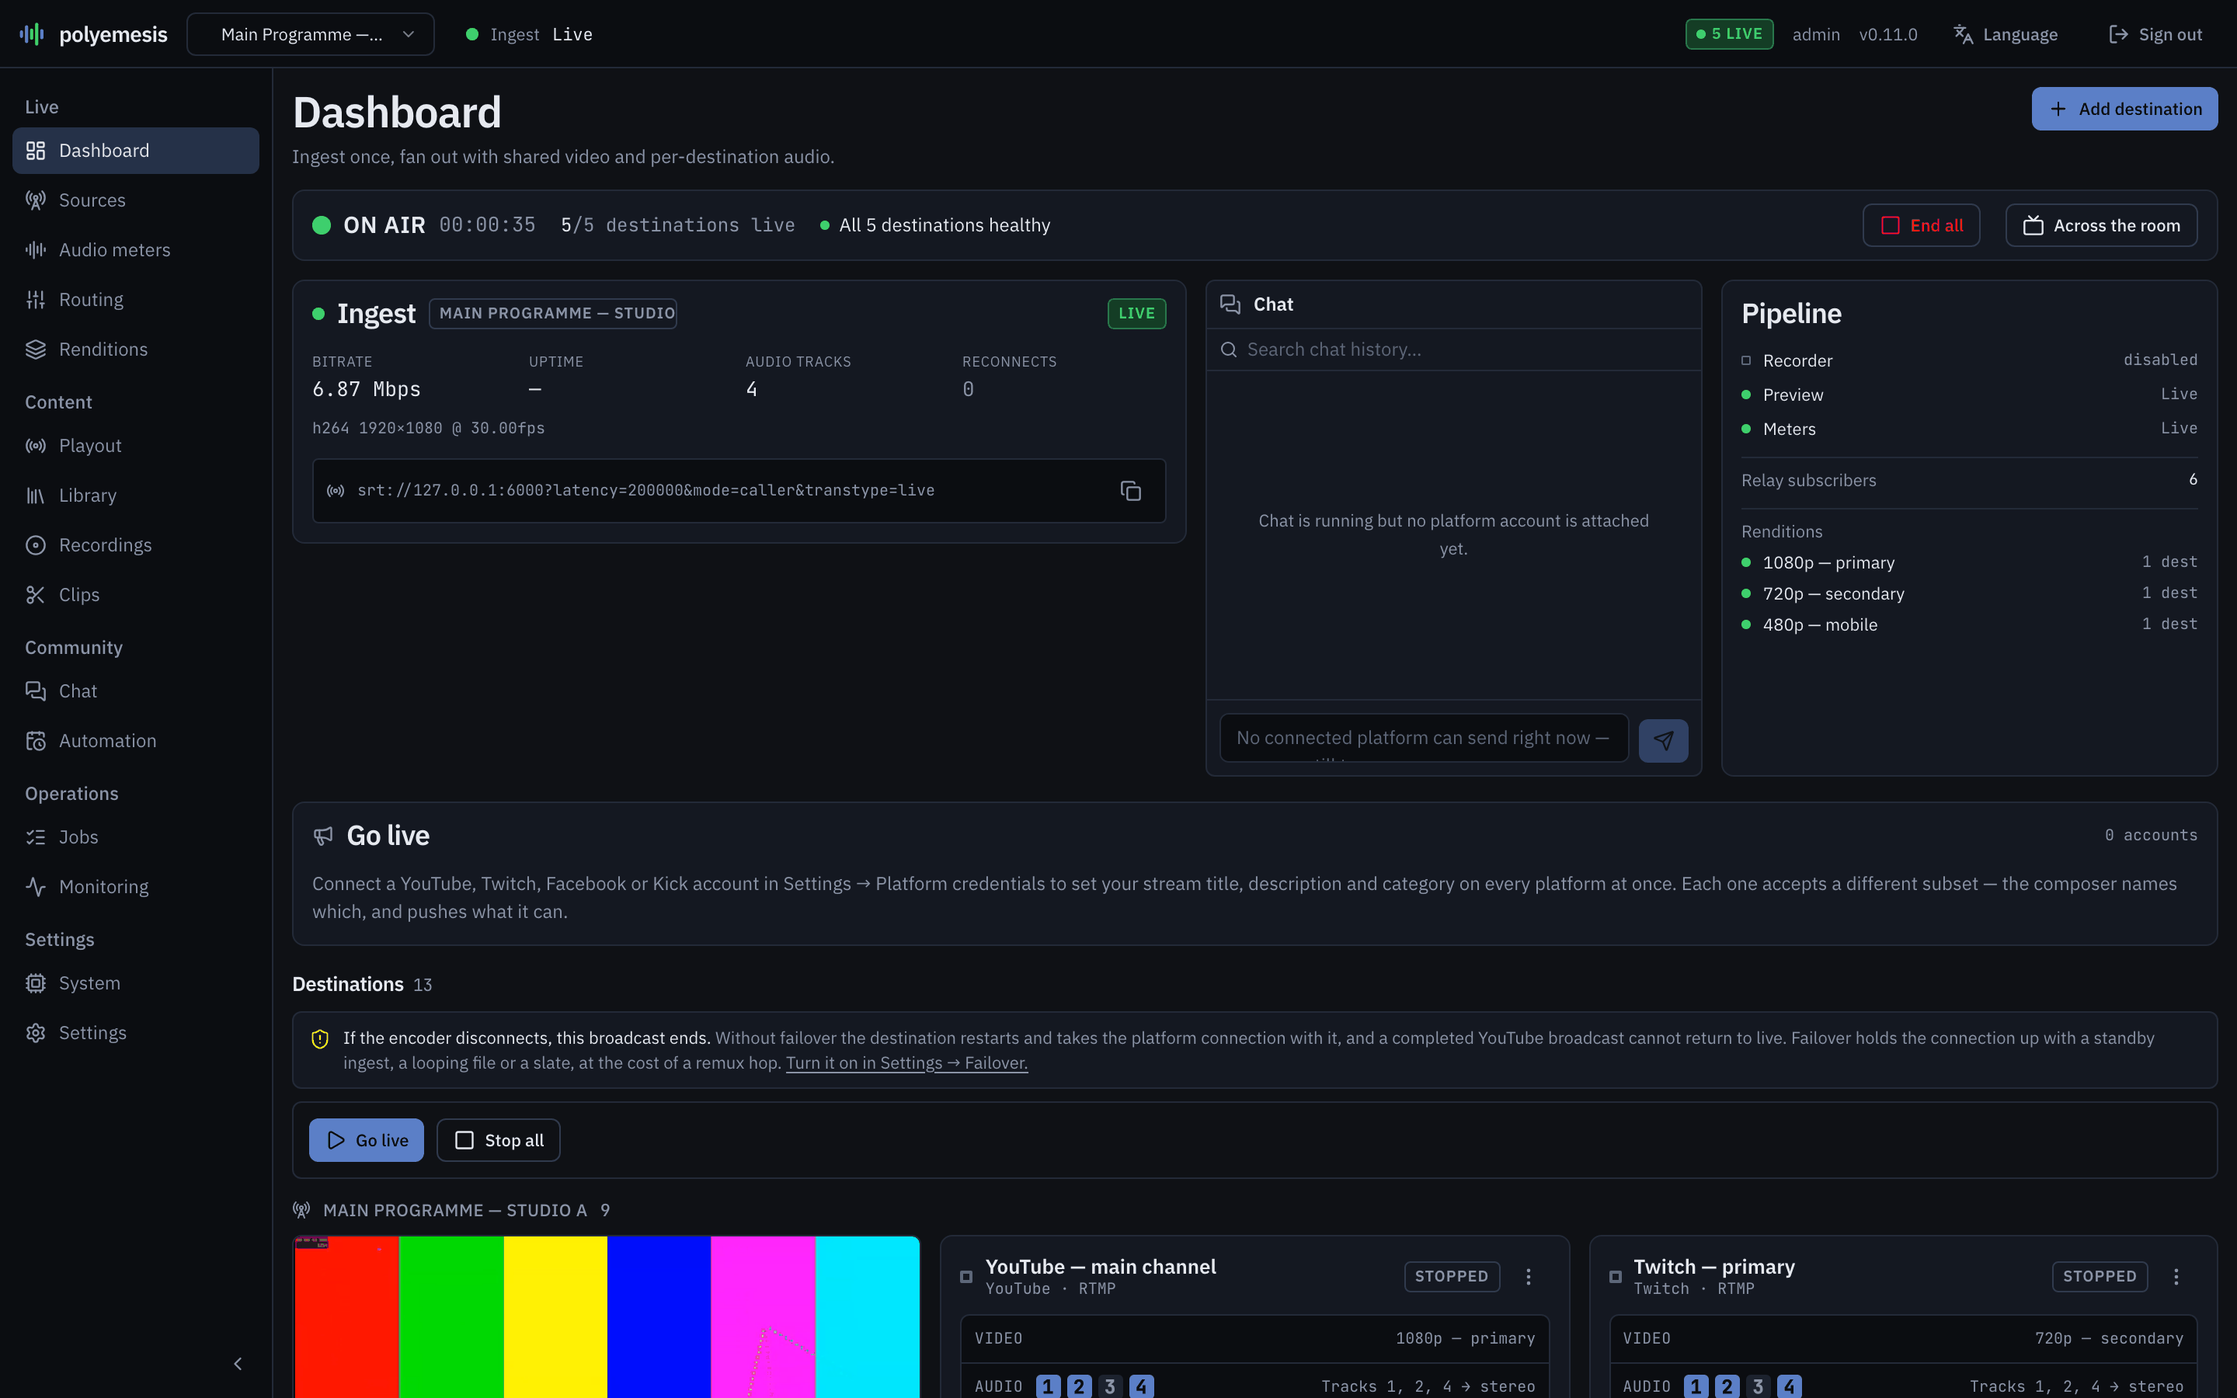
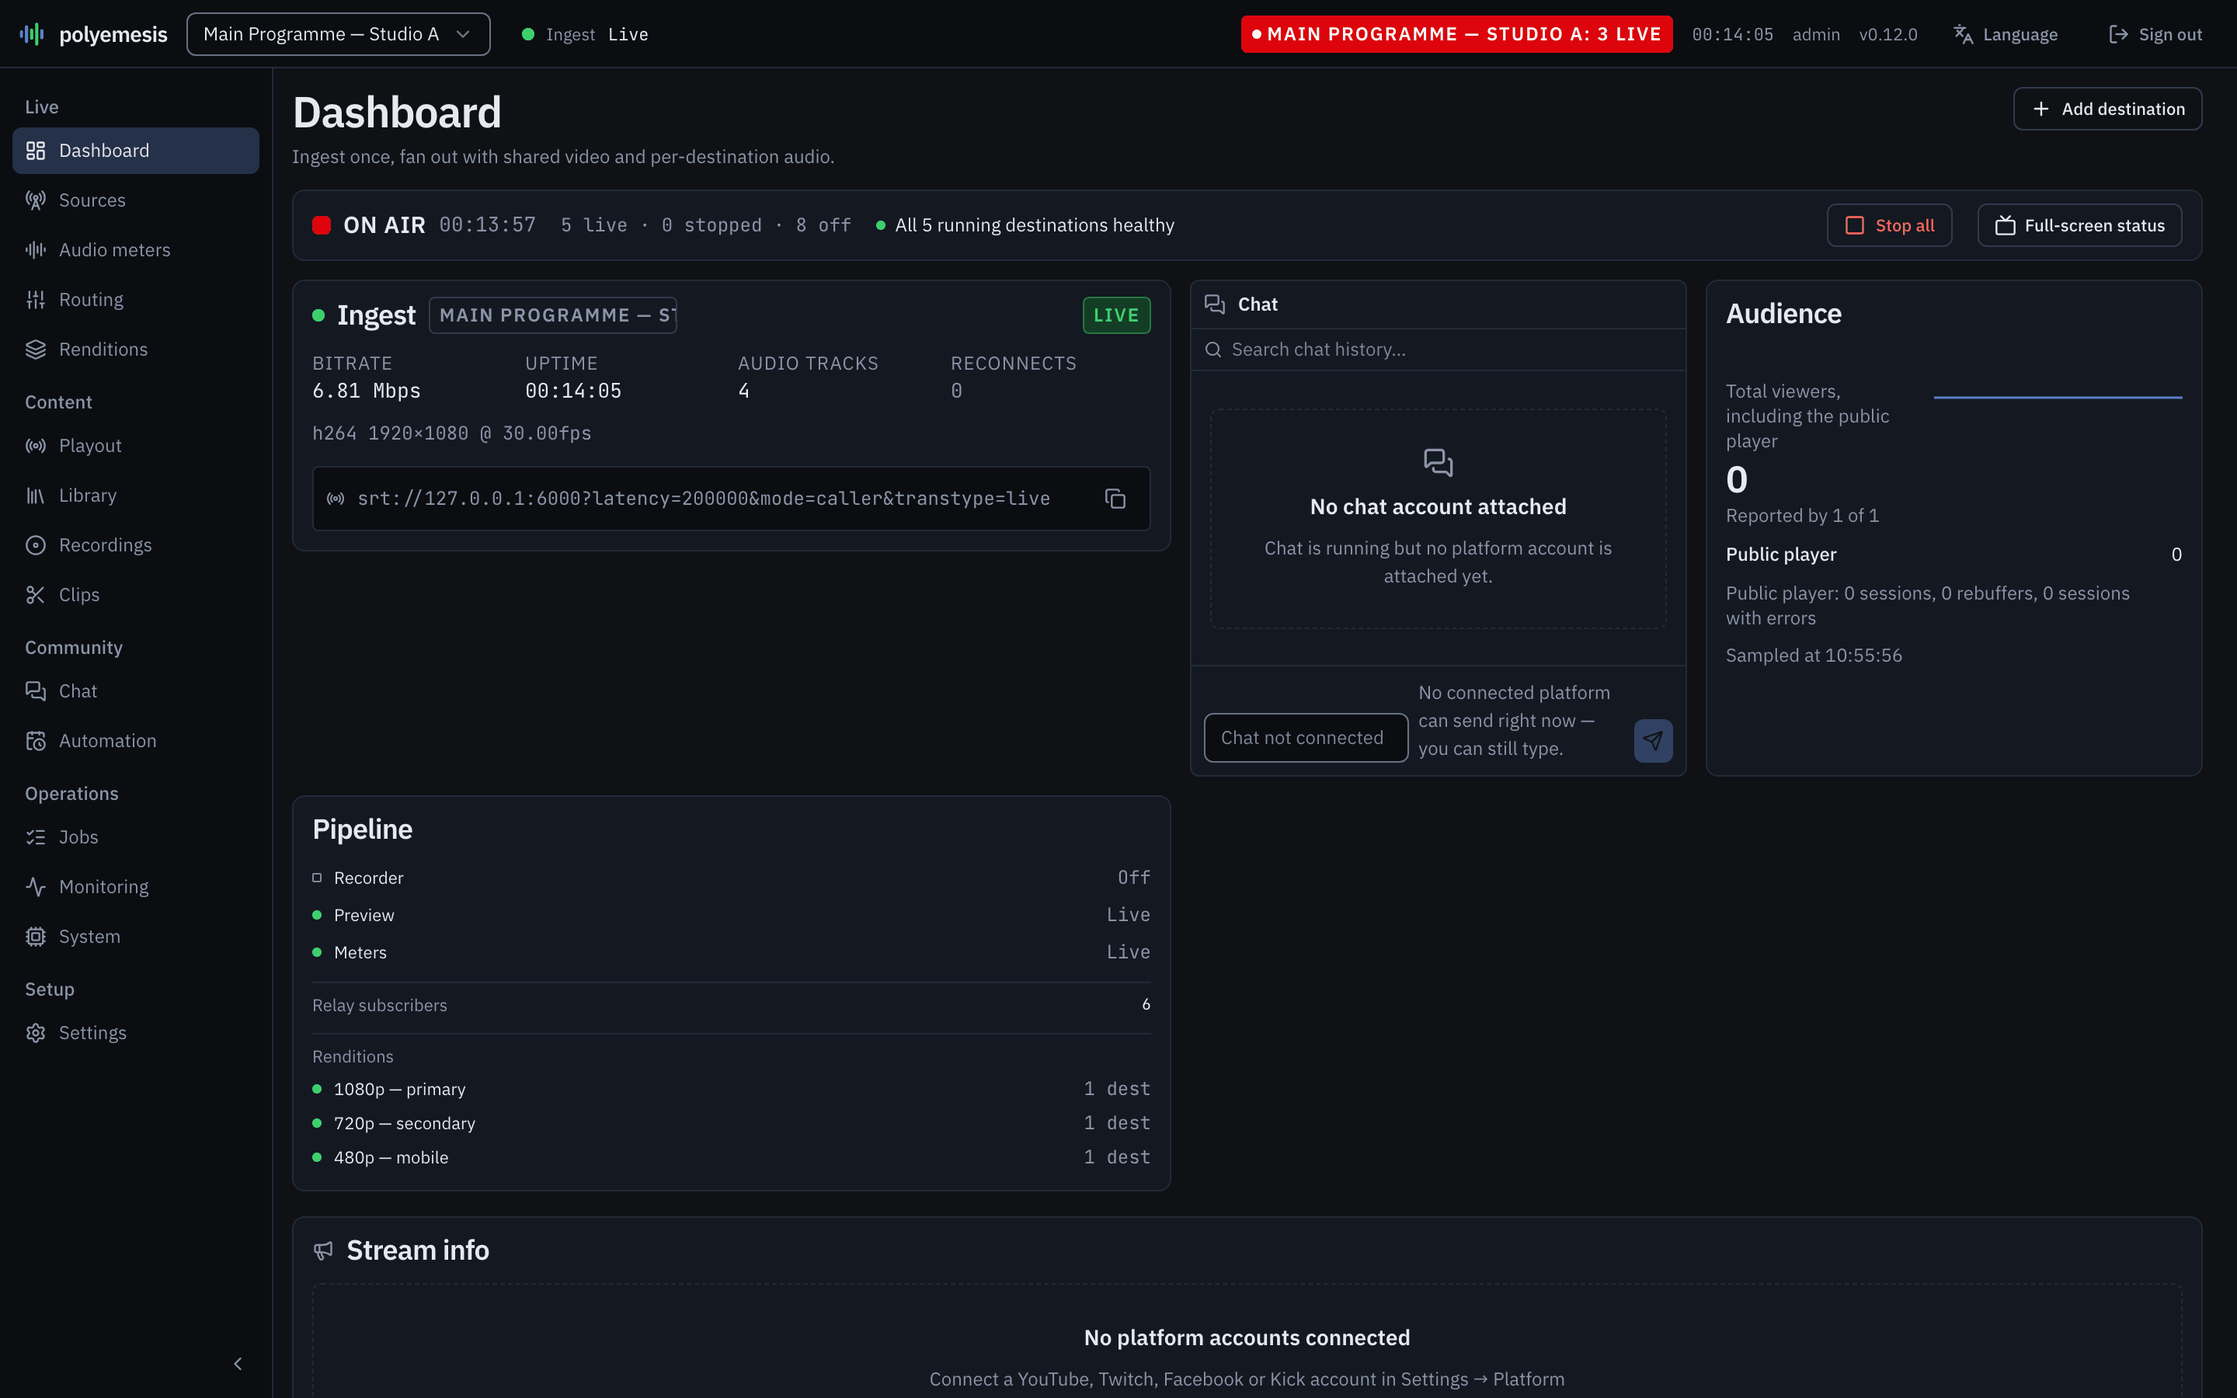
docs(site): recapture the six shots #973 kept old, and 09-chat
Taken with demo-seed.sh (alpine:3.24) and ui/e2e/capture.spec.ts against this
branch's build, quantized the way demo-seed.sh does, and copied byte-identical
to docs/media and web/src/assets/shots.

- 01-dashboard: Audience now counts (bug 1); the strip says Stop all. The
  dashboard grew an Audience card, so destinations and the preview are below
  the frame: caption and alt now describe what is in it. The hero guard also
  refuses "Loading…", which would otherwise pass it at once.
- 02-routing-hero: taken at 1024x1800 so the music-rights card below the four
  track rows is inside the clip; asserted. Frame checked by eye for four live
  meters (level frames name no programme; see the PR).
- 05-sources: each card is ~1000px since caption words moved in; framed at
  1440x1500 from the first programme's signal and publish URL through the
  second card to the third programme's header, asserted. Tokens masked right
  before the shutter.
- 20-automod: framed on Pattern rules beside the Model checker (off); the
  matrix is further down the tab, and the caption says so.
- 21/22-platforms: spec rewritten for the redesign (Optional banner,
  Connected channels, Add a platform rows with Set up). 21 opens YouTube's
  setup with empty fields; 22 is still the declared demo-account stub.
- 09-chat: the send box no longer names Facebook (bug 2).

captureKit's chip wait now waits for the chip to attach first: on a fresh
[…]

diff --git a/ui/e2e/capture.spec.ts b/ui/e2e/capture.spec.ts
@@ -44,7 +44,9 @@ test("dashboard — the hero shot", async ({ page }) => {
   // The ingest's not-running word is Stopped since app-council A91, and
   // Stopped can also be a pipeline row's honest answer, so the guard reads the
   // header ingest chip itself rather than the whole page.
-  await expect(page.getByTestId("chrome-ingest-status")).not.toHaveText("Stopped", {
+  // "Loading…" as well: the chip says that before its first reading now, and
+  // a guard that only refused "Stopped" would pass on it at once.
+  await expect(page.getByTestId("chrome-ingest-status")).not.toHaveText(/^(Stopped|Loading…)$/, {
     timeout: 120_000,
   });
   // BEFORE the placeholder guard below, not after it. Waiting for the
@@ -185,8 +187,14 @@ test("routing — the thing nothing else does", async ({ page }) => {
   // track card is 1000px of mostly meter bar, which the column shrinks until
   // the track names are unreadable again. At 1024 the card is ~600px, so the
   // hero shows it at close to its real size.
+  //
+  // AND TALL ENOUGH TO HOLD THE WHOLE CLIP. The music-rights card sits below
+  // the four track rows, and a clip is cut from the viewport, not the page:
+  // at 900px it ended on Track 4 under the sticky save bar, and the switch the
+  // clip exists to show was never in it. 1800px holds the tab row through the
+  // card's "Also exclude" line with room to spare.
   const fullViewport = page.viewportSize()!;
-  await page.setViewportSize({ width: 1024, height: 900 });
+  await page.setViewportSize({ width: 1024, height: 1800 });
   await settle(page, 800);
   const simpleTab = page.getByText("Simple", { exact: true }).first();
   // Scrolled to the top and then back down past the app's sticky header,
@@ -202,9 +210,20 @@ test("routing — the thing nothing else does", async ({ page }) => {
   await settle(page, 800);
   const top = (await simpleTab.boundingBox())!;
   const tail = (await page.getByText("Also exclude", { exact: false }).first().boundingBox())!;
+  // Asserted, not assumed: a clip whose bottom edge falls outside the viewport
+  // is silently cut there, which is how the switch went missing before.
+  expect(tail.y + tail.height + 18, "the music-rights card ends below the viewport").toBeLessThan(
+    page.viewportSize()!.height,
+  );
   const vw = page.viewportSize()!.width;
   const x = Math.max(0, top.x - 14);
   const y = Math.max(0, top.y - 10);
+  // Tracks 3 and 4 can read "not measured, last peak at …" in this frame:
+  // level frames name no programme, the demo's other two programmes carry two
+  // tracks, and whichever engine spoke last decides what tracks 3 and 4 show
+  // (found while re-aiming this, reported, not fixed here). A presence check
+  // around the shutter cannot hold it -- it toggles faster than a screenshot
+  // -- so the committed frame is one checked by eye to show all four meters.
   await page.screenshot({
     path: `${OUT}/02-routing-hero.png`,
     clip: { x, y, width: vw - 12 - x, height: tail.y + tail.height + 18 - y },
@@ -272,10 +291,31 @@ test("sources — one port, many programmes", async ({ page }) => {
   // themselves are one per protocol and would reach two on a single source.
   const perSource = page.locator('[data-tour="source-publish-urls"]');
   await expect.poll(() => perSource.count(), { timeout: 30_000 }).toBeGreaterThan(1);
-  await maskPublishTokens(page);
+  // RE-AIMED. Each programme's card now carries its caption track and caption
+  // words above the ingest fields, so a card is about a thousand pixels tall
+  // and the 900px frame at the top of the page held the first programme's
+  // caption-word boxes and nothing else -- under a caption about three
+  // programmes on one port. Taller, and framed from the first programme's
+  // "Signal detected" and publish URL down through the second programme's
+  // whole card to the third programme's header: three programmes, two of their
+  // per-programme publish URLs, one port.
+  const fullViewport = page.viewportSize()!;
+  await page.setViewportSize({ width: fullViewport.width, height: 1500 });
+  const names = page.locator("[data-slot=card-title]");
+  await expect.poll(() => names.count(), { timeout: 30_000 }).toBeGreaterThan(2);
+  await topOfFrame(page, page.getByText("Signal detected").first());
+  // Clear of the sticky header, which would otherwise sit on the line framed.
+  await page.locator("main").evaluate((m) => m.scrollBy(0, -64));
   await settle(page);
+  // The third programme's name has to be in the frame, or this is two.
+  const third = (await names.nth(2).boundingBox())!;
+  expect(third.y + third.height, "the third programme is below the frame").toBeLessThan(1500);
+  // Masked last, right before the shutter: the resize and the scroll above
+  // re-render the cards, and a re-render can put a token back.
+  await maskPublishTokens(page);
   await page.screenshot({ path: `${OUT}/05-sources.png` });
   await assertNoTokenSurvived(page);
+  await page.setViewportSize(fullViewport);
 });
 
 /** Replaces every publish token on the page with a visibly fake one.
@@ -740,7 +780,20 @@ test("automod — the rules, and the matrix that grants them", async ({ page }) 
   // Seeded on, so a screenshot of it off would be a screenshot of the feature
   // switched off -- worth asserting rather than hoping.
   await expect(toggle).toBeChecked();
+  // RE-AIMED after the Settings reorganisation. The tab is a two-column grid
+  // now, and the model checker card (endpoint, instruction, confidence floor,
+  // hourly ceiling, then an action per category) is about 1800px tall, with
+  // the matrix below it. Scrolling the switch into view landed on the bottom
+  // of the model card's category dropdowns and the save bar, with neither
+  // card's purpose in frame. Framed instead on the top of the two automod
+  // cards, side by side: the seeded pattern rules and the model checker, off.
+  // The matrix is the subject of the caption's second sentence, not the frame.
+  const model = page.locator("[data-slot=card-title]", { hasText: "Model checker" }).first();
+  await topOfFrame(page, model);
+  // Clear of the tab's sticky save bar, which otherwise covers the titles.
+  await page.locator("main").evaluate((m) => m.scrollBy(0, -88));
   await settle(page);
+  await expect(page.getByText("Pattern rules", { exact: true }).first()).toBeInViewport();
   await page.screenshot({ path: `${OUT}/20-automod.png` });
 });
 
@@ -757,15 +810,27 @@ test("platforms — sign-in and credentials, honestly not connected", async ({ p
   // Settings → Platform credentials, where each platform's account is attached.
   // The seeded install has NO account connected and never will: that needs live
   // OAuth credentials for a real channel. So this photographs the genuine
-  // not-connected state -- the capability table and the connect forms -- which
-  // is what a new install shows, and nothing is typed into any field.
+  // not-connected state, which is what a new install shows, and nothing is
+  // typed into any field.
+  //
+  // REDESIGNED (settings-council R1/R2): the tab is now an "Optional" banner
+  // with the developer-app explanation one click down, a Connected channels
+  // card (empty here), and an "Add a platform" list of one row per platform
+  // with a status pill and a Set up button. The old frame anchored on a "Why
+  // you need your own developer app" card that no longer exists. This opens
+  // YouTube's row, so the shot is the one-time setup itself: the empty Client
+  // ID and Client secret fields under the platform list.
   await page.goto("/settings?tab=platforms");
-  await expect(page.getByText(/Platforms differ in how much/)).toBeVisible();
-  // Framed on the "why you need your own developer app" card, so the shot is
-  // that explanation and the first setup forms (Client ID, Client secret,
-  // connect) rather than the capability table above them, which is already
-  // the subject of its own section of the site.
-  await topOfFrame(page, page.getByText("Why you need your own developer app"));
+  const connected = page.getByTestId("platforms-connected");
+  await expect(connected).toBeVisible({ timeout: 30_000 });
+  await expect(connected.getByText("No channel connected yet")).toBeVisible();
+  const setUp = page.getByRole("button", { name: /^Set up: YouTube/ });
+  await expect(setUp).toBeVisible();
+  await setUp.click();
+  await expect(page.locator("#platform-panel-youtube").getByText(/client id/i).first()).toBeVisible();
+  await topOfFrame(page, page.getByText("Optional.", { exact: true }));
+  // <main> is the scroller, not the window: clear the banner of the header.
+  await page.locator("main").evaluate((m) => m.scrollBy(0, -24));
   await settle(page, 1500);
   await page.screenshot({ path: `${OUT}/21-platforms.png` });
 });
@@ -832,13 +897,19 @@ test("platforms — connected, the end state of the one-time setup", async ({ pa
   );
 
   await page.goto("/settings?tab=platforms");
-  await expect(page.getByText(/Platforms differ in how much/)).toBeVisible();
-  const connected = page.getByText("Connected accounts").first();
-  await expect(
-    connected,
-    "the stubbed accounts did not render, so this would photograph the empty form under a 'connected' name",
-  ).toBeVisible({ timeout: 20_000 });
-  await topOfFrame(page, page.getByText("Why you need your own developer app"));
+  // Since the redesign the connected accounts are rows in the Connected
+  // channels card, each with a Connected pill, rather than a form per
+  // platform. Asserted per row: a card that rendered its empty state would
+  // otherwise photograph "No channel connected yet" under a "connected" name.
+  const connected = page.getByTestId("platforms-connected");
+  await expect(connected).toBeVisible({ timeout: 30_000 });
+  for (const a of DEMO_ACCOUNTS) {
+    await expect(
+      connected.locator(`[data-platform-row="${a.platform}"]`).getByText(a.accountName),
+      "the stubbed accounts did not render, so this would photograph the empty state under a 'connected' name",
+    ).toBeVisible({ timeout: 20_000 });
+  }
+  await topOfFrame(page, page.getByText("Optional.", { exact: true }));
   await page.evaluate(() => window.scrollBy(0, -16));
   await settle(page, 1500);
   await page.screenshot({ path: `${OUT}/22-platforms-connected.png` });

diff --git a/ui/e2e/captureKit.ts b/ui/e2e/captureKit.ts
@@ -105,6 +105,10 @@ export async function settle(page: import("@playwright/test").Page, ms = 900) {
  *  is the truth. */
 async function waitForIngestChip(page: import("@playwright/test").Page) {
   const chip = page.getByTestId("chrome-ingest-status");
+  // Attached first. Straight after a navigation the chrome has often not
+  // rendered yet, and a count of zero then skipped the wait entirely: the
+  // chat shot was taken 1.5 s in, with the chip still reading "Loading…".
+  await chip.waitFor({ state: "attached", timeout: 10_000 }).catch(() => {});
   if ((await chip.count()) === 0) return;
   await expect(chip).not.toHaveText(/^(Stopped|Loading…)$/, { timeout: 15_000 }).catch(() => {});
 }

diff --git a/docs/media/README.md b/docs/media/README.md
@@ -52,13 +52,18 @@ account is attached yet"*, under a test named "four platforms in one hub". The
 picture argued the opposite of its own title, which is its own kind of
 dishonesty.
 
+Which platforms the send box may name is not part of the fixture: the capture
+reads it from `GET /platforms/capabilities`, the same matrix the server uses,
+so Facebook (chat send "Not possible") shows as receive-only.
+
 It is written down here because an undeclared exception is how a policy stops
 meaning anything.
 
 ### `21-platforms.png` and `22-platforms-connected.png`
 
 `21-platforms.png` is Settings → Platform credentials in the state every new
-install starts in: no developer app registered and no account connected, so the
+install starts in: the "Optional" banner, an empty Connected channels card, and
+YouTube's row opened with **Set up** to show its one-time setup, where the
 Client ID and Client secret fields are empty. Nothing types into those fields.
 
 `22-platforms-connected.png` is the same real page after that one-time setup,
@@ -66,8 +71,10 @@ and it is the second declared exception, on the same terms as chat. Connecting
 needs live OAuth credentials for a real channel, so the capture serves fixture
 responses for `/platforms/credentials` and `/platforms/accounts`: a client id
 reading `demo-…-client-not-real`, and accounts named "Demo Studio". The viewer
-readout says Offline, because no platform is carrying the demo stream. The page
-and its logic are genuine; whose channel it is, is not.
+readout says Offline, because no platform is carrying the demo stream. Since
+the Platform credentials redesign the shot is the Connected channels card, one
+row per connected platform with its Connected pill, above the platforms not yet
+set up. The page and its logic are genuine; whose channel it is, is not.
 
 The website's "Platform sign-in" section shows the connected state, with the
 empty form beneath it as the one-time setup.
@@ -78,7 +85,13 @@ empty form beneath it as the one-time setup.
 music-rights switch for the selected destination, cropped so it stays legible
 at a small size. It was taken for the home page hero, which the animated
 SignalPath component replaces ([#971](https://github.com/rainmanjam/polyemesis/pull/971));
-the clip is kept for any page that needs the routing screen at that size. `07-monitoring.png` is framed on the process
+the clip is kept for any page that needs the routing screen at that size. It is
+taken at 1024×1800, because the music-rights card sits below the four track
+rows and a clip is cut from the viewport: at 900px tall it ended on Track 4 and
+the switch was not in it. On the demo's three programmes the level frames name
+no programme, so tracks 3 and 4 can read "not measured" when another
+programme's two-track frame arrived last; the committed clip is a capture
+checked by eye to show all four meters. `07-monitoring.png` is framed on the process
 list, with the FFmpeg log filtered to one process (the preview, when it still
 has lines). Every child that decodes the relay joins it mid-GOP and logs a burst
 of h264 decoder errors until the first keyframe; the supervisor logs that burst
